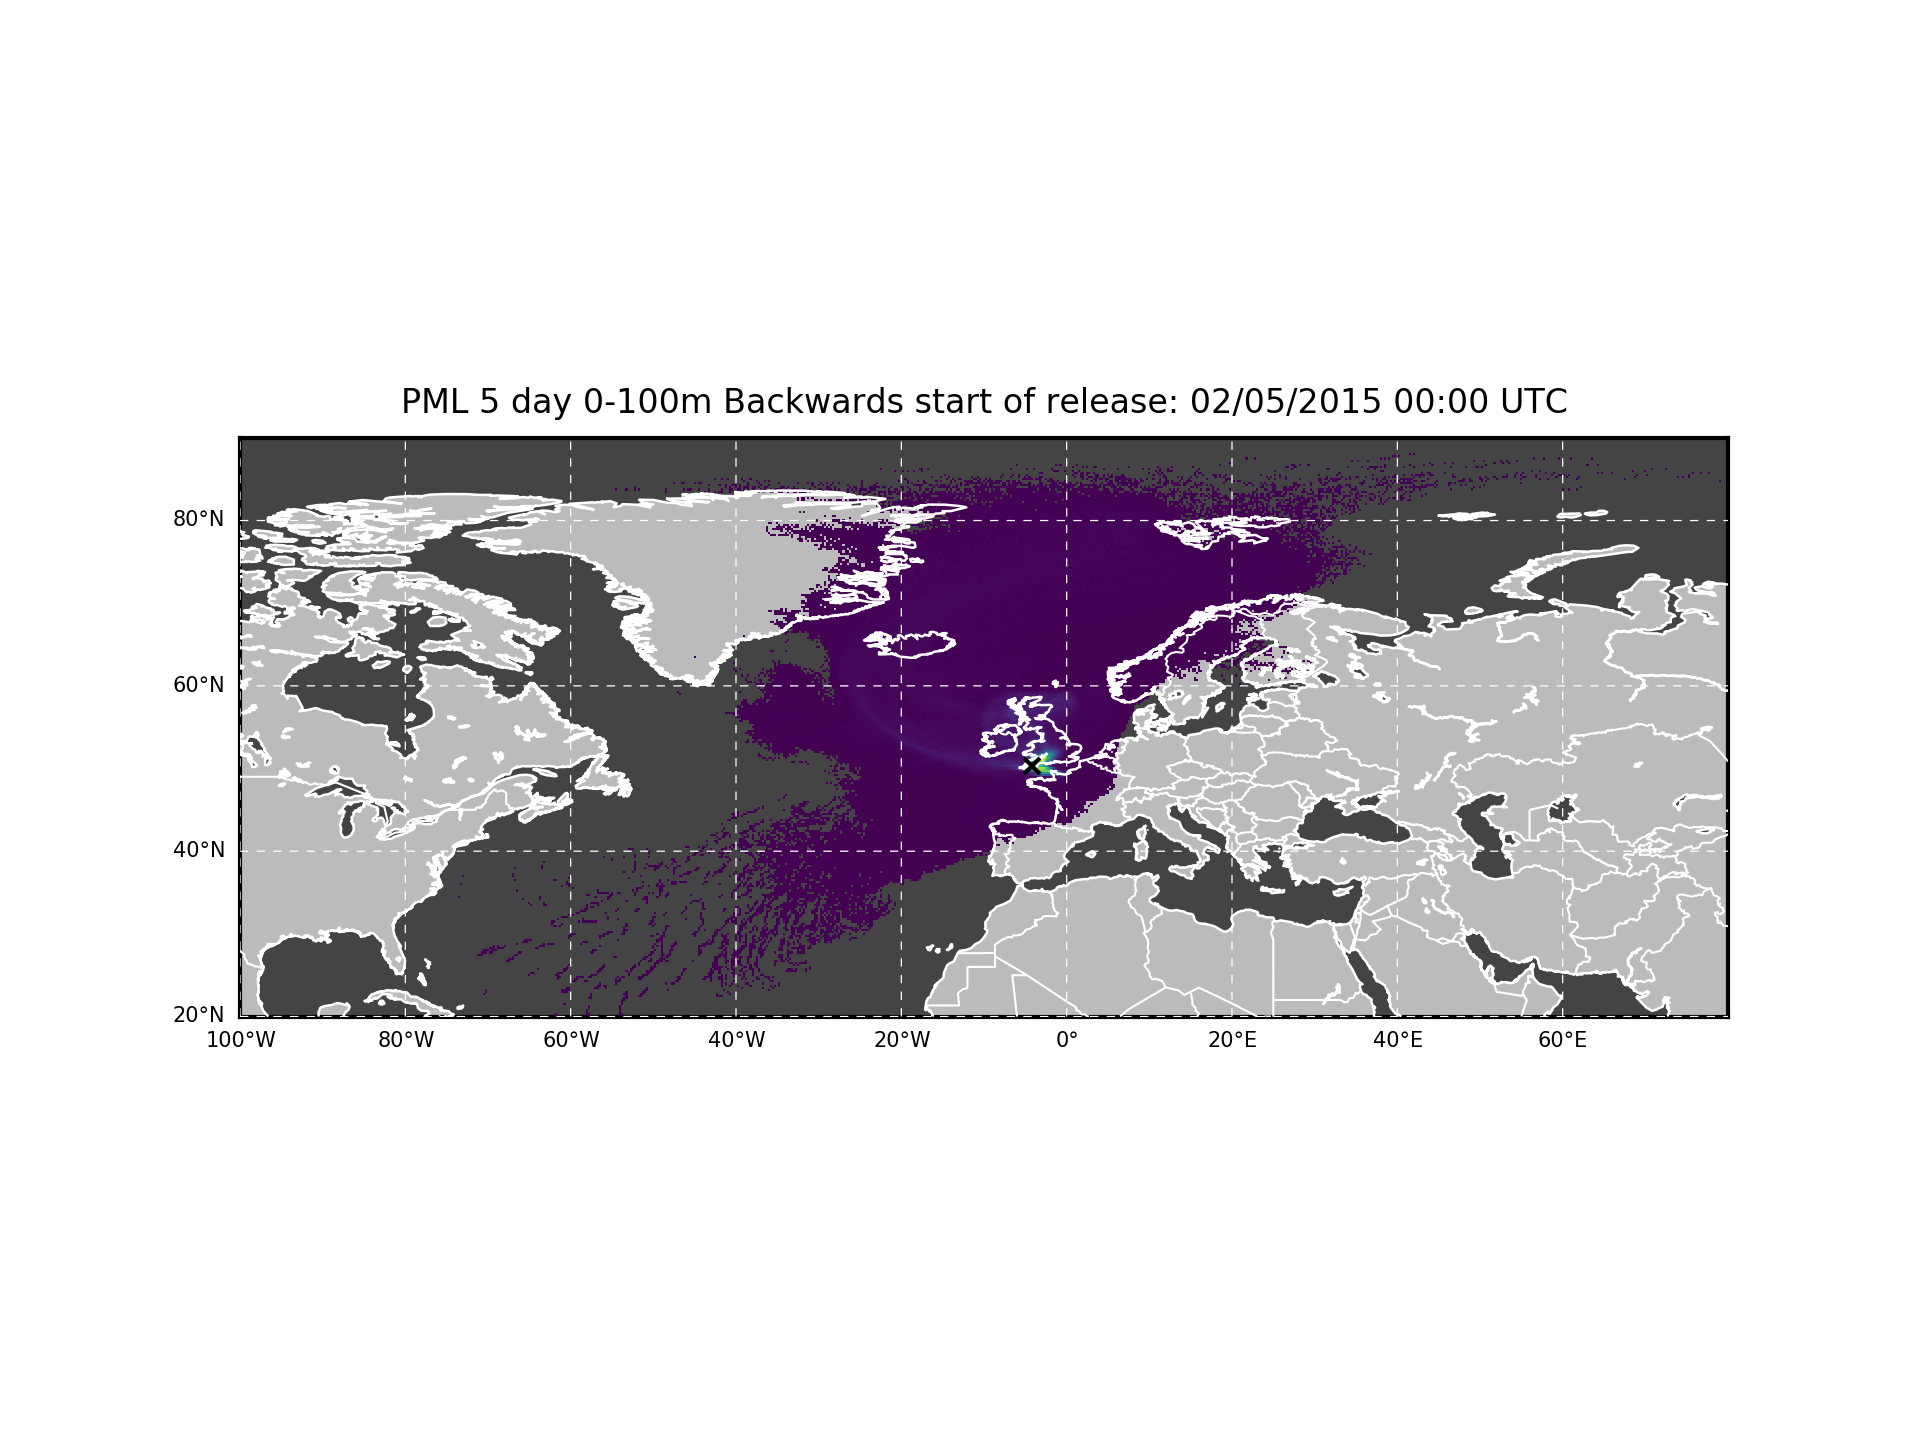
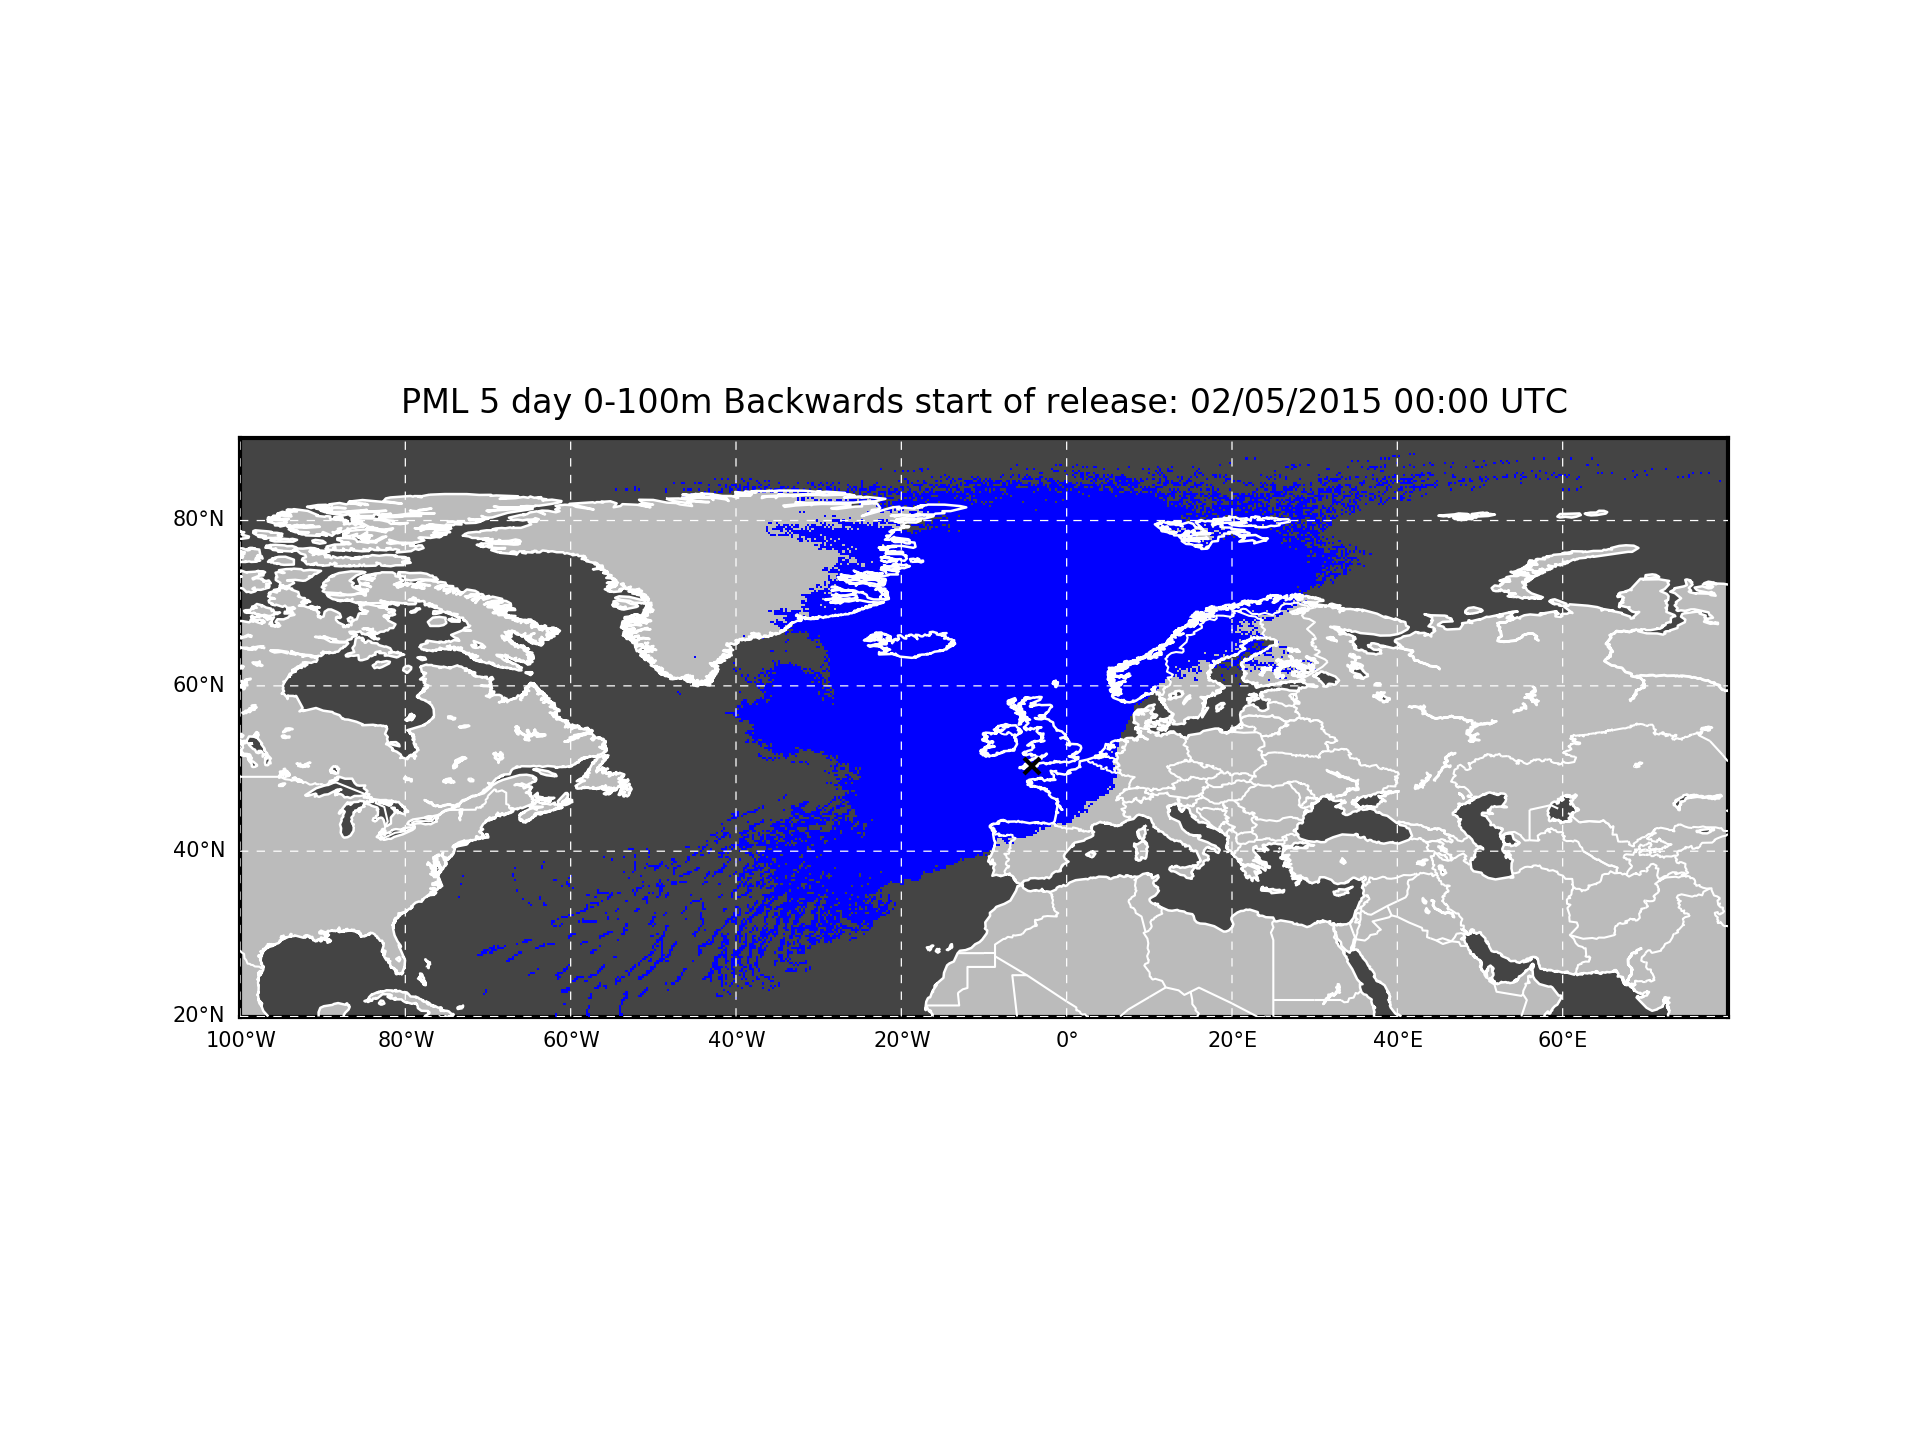
Testing pcolormesh

Changed region(s): [[0.3125, 0.3125, 0.75, 0.6875]]

diff --git a/plotter_mini.py b/plotter_mini.py
@@ -1,0 +1,43 @@
+#!/usr/bin/env python
+
+from namereader import *
+import matplotlib
+import matplotlib.cm as cm
+import pandas as pd
+
+infile = 'PML_NAME_output/low5dayPML_20150501.txt'
+timestamp = '26/04/2015 00:00 UTC'
+
+n = name.Name(infile)
+column = timestamp
+
+mm = namemap.Map(n, column=column)
+
+mm.setBounds(n.lon_bounds, n.lat_bounds)
+
+mm.setAxes(n.lon_grid, n.lat_grid)
+
+mm.setScale((5.0e-9, 1.0e-4))
+
+mm.drawBase('test of colormesh')
+
+foo = n.data[timestamp]
+
+foo1 = foo.loc[foo > 0.0]
+
+foo2 = foo1.unstack(level=1)
+foo2 = foo2.fillna(0)
+
+lons = foo2.index.get_level_values('Longitude')
+lats = foo2.columns
+
+foo2 = foo2.transpose()
+
+x,y = mm.m(lons,lats)
+
+norm = matplotlib.colors.LogNorm(vmin=5e-9, vmax=1e-4, clip=False)
+
+mm.m.pcolormesh(x, y, foo2, cmap=cm.rainbow, norm=norm, zorder=4)
+
+mm.saveFile(filename='plot_minitest.png')
+

diff --git a/plotter.py b/plotter.py
@@ -158,6 +158,7 @@ m.gridSetup()
 
 # Check for solid colouring flag
 if solid:
+    m.solid = True
     if color1:
         m.gridSolid(color=color1)
     else:
@@ -166,11 +167,13 @@ if solid:
 # Plot using colormap
 elif colormap:
     m.gridColormap(colormap)
+    m.gridDraw()
 else:
     m.gridColormap()
+    m.gridDraw()
 
 # Draw gridded values
-m.gridDraw()
+
 m.addTimestamp()
 
 # Add station markers 1-6 if defined
